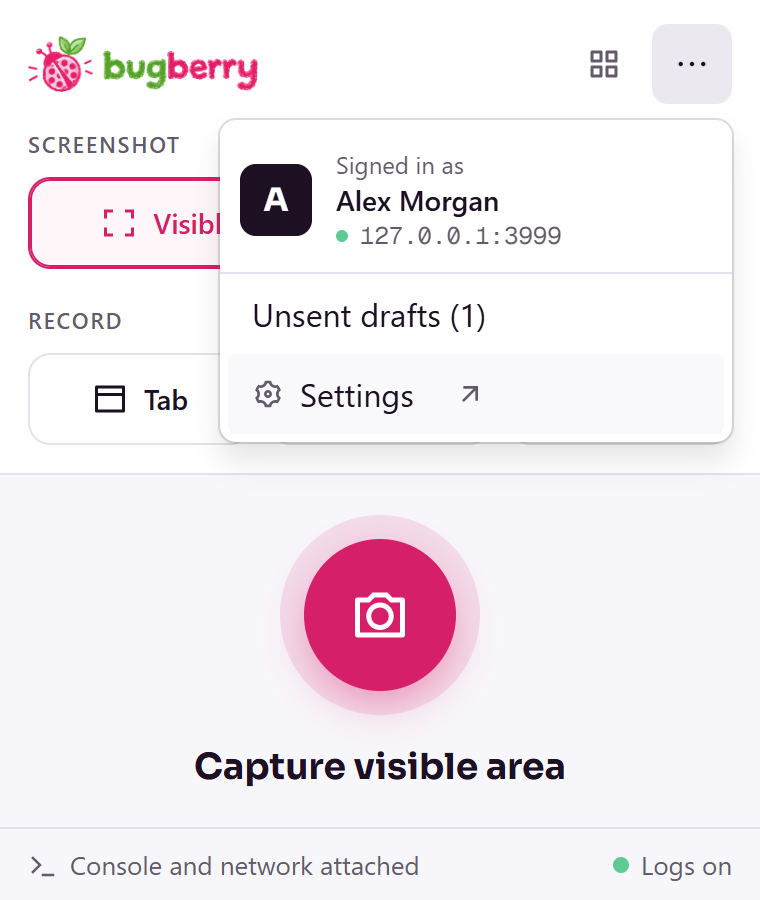
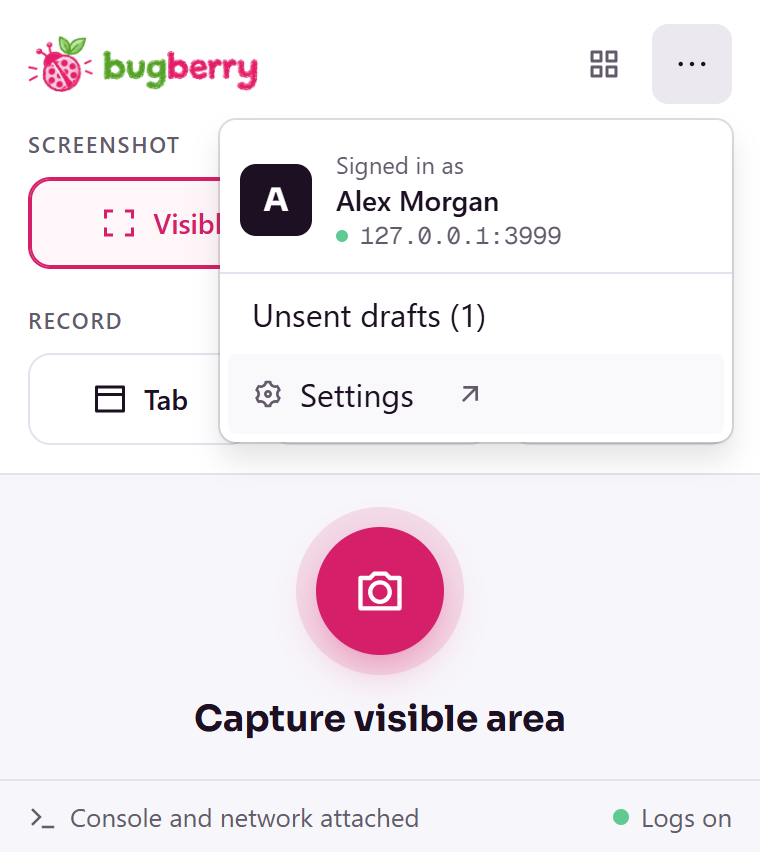
fix(extension): Record mode fits Chrome's 600 px popup
The countdown chip reads "3s" in every mode (its name stays "3s countdown"), so
the Record chips fit one row, and the dial is 64 px with a 10 px halo instead of
76 and 12. Record mode goes from 659 to 595 px, Screenshot mode from 564 to 540.
The docs' popup pictures and the replay review's are taken again.

diff --git a/apps/extension/entrypoints/popup/CapturePanel.tsx b/apps/extension/entrypoints/popup/CapturePanel.tsx
@@ -127,11 +127,11 @@ export function CaptureControls(props: {
   const copy = captureCopy(choice, props.micShort, true)
   const recording = choice.kind === "record"
   return (
-    <div className="flex flex-col items-center px-4 pt-5 pb-4">
+    <div className="flex flex-col items-center px-4 pt-4 pb-4">
       <Dial label={copy.caption} tone="primary" disabled={props.busy} onPress={recording ? props.onRecord : props.onScreenshot}>
-        {recording ? <span aria-hidden className="size-[26px] rounded-full bg-primary-foreground" /> : <RiCameraLine size={30} aria-hidden />}
+        {recording ? <span aria-hidden className="size-[22px] rounded-full bg-primary-foreground" /> : <RiCameraLine size={26} aria-hidden />}
       </Dial>
-      <p aria-hidden className="mt-3 font-heading text-lg font-bold text-foreground">
+      <p aria-hidden className="mt-2 font-heading text-lg font-bold text-foreground">
         {copy.caption}
       </p>
       {recording && (
@@ -155,9 +155,15 @@ export function CaptureControls(props: {
               {props.camera.open ? <RiArrowUpSLine size={16} aria-hidden /> : <RiArrowDownSLine size={16} aria-hidden />}
             </AriaButton>
           )}
-          <ToggleButton isSelected={prefs.countdown} onChange={(on) => props.onPrefs({ countdown: on })} className={chip(prefs.countdown)}>
+          {/* "3s" keeps the chips on one row, so Record mode fits Chrome's 600 px popup. */}
+          <ToggleButton
+            aria-label="3s countdown"
+            isSelected={prefs.countdown}
+            onChange={(on) => props.onPrefs({ countdown: on })}
+            className={chip(prefs.countdown)}
+          >
             <RiTimerLine size={16} aria-hidden />
-            {choice.source === "screen" && props.tabRecorder ? "3s" : "3s countdown"}
+            3s
           </ToggleButton>
           {choice.source === "screen" && props.tabRecorder && (
             <ToggleButton isSelected={prefs.systemAudio} onChange={(on) => props.onPrefs({ systemAudio: on })} className={chip(prefs.systemAudio)}>

diff --git a/apps/extension/entrypoints/popup/parts.tsx b/apps/extension/entrypoints/popup/parts.tsx
@@ -10,12 +10,12 @@ export function Dial(props: { label: string; tone: "primary" | "danger"; disable
       : "bg-danger text-danger-foreground shadow-[0_8px_24px_-6px_color-mix(in_oklab,var(--danger)_55%,transparent)]"
   const halo = props.tone === "primary" ? "bg-primary/12" : "bg-danger/12"
   return (
-    <span className={`grid place-items-center rounded-full p-3 ${halo}`}>
+    <span className={`grid place-items-center rounded-full p-2.5 ${halo}`}>
       <AriaButton
         aria-label={props.label}
         isDisabled={props.disabled}
         onPress={props.onPress}
-        className={`grid size-[76px] cursor-pointer place-items-center rounded-full outline-hidden transition hover:brightness-105 pressed:scale-[0.97] focus-visible:ring-4 focus-visible:ring-ring/30 disabled:cursor-default disabled:opacity-60 ${tone}`}
+        className={`grid size-16 cursor-pointer place-items-center rounded-full outline-hidden transition hover:brightness-105 pressed:scale-[0.97] focus-visible:ring-4 focus-visible:ring-ring/30 disabled:cursor-default disabled:opacity-60 ${tone}`}
       >
         {props.children}
       </AriaButton>

diff --git a/apps/extension/test/capture/popup-view.test.tsx b/apps/extension/test/capture/popup-view.test.tsx
@@ -88,6 +88,8 @@ describe("tiles and dial", () => {
     expect(radio("Tab").checked).toBe(true)
     expect(button(/Mic off/)).toBeTruthy()
     expect(button("3s countdown").getAttribute("aria-pressed")).toBe("true")
+    // "3s" on the chip in every mode, so the chips fit one row.
+    expect(button("3s countdown").textContent).toBe("3s")
     expect(screen.getByText("Only this tab is recorded. Other tabs and apps stay private.")).toBeTruthy()
     fireEvent.click(button("Record this tab"))
     expect(props.onRecord).toHaveBeenCalledTimes(1)
@@ -95,7 +97,7 @@ describe("tiles and dial", () => {
 
   test("Screen: 3s and System audio chips", () => {
     const props = view({ prefs: record("screen") })
-    expect(button("3s")).toBeTruthy()
+    expect(button("3s countdown").textContent).toBe("3s")
     expect(button("System audio").getAttribute("aria-pressed")).toBe("true")
     fireEvent.click(button("System audio"))
     expect(props.onPrefs).toHaveBeenCalledWith({ systemAudio: false })

diff --git a/apps/extension/entrypoints/popup/RecordingPanel.tsx b/apps/extension/entrypoints/popup/RecordingPanel.tsx
@@ -33,7 +33,7 @@ export function RecordingPanel(props: {
       <p className="mt-1 font-mono text-[32px] leading-tight font-bold text-foreground tabular-nums">{clock(live.elapsedMs)}</p>
       <div className="mt-2">
         <Dial label="Stop and review" tone="danger" onPress={props.onStop}>
-          <span aria-hidden className="size-[22px] rounded-[5px] bg-danger-foreground" />
+          <span aria-hidden className="size-[18px] rounded-[4px] bg-danger-foreground" />
         </Dial>
       </div>
       <p aria-hidden className="mt-2 font-heading text-base font-bold text-foreground">
